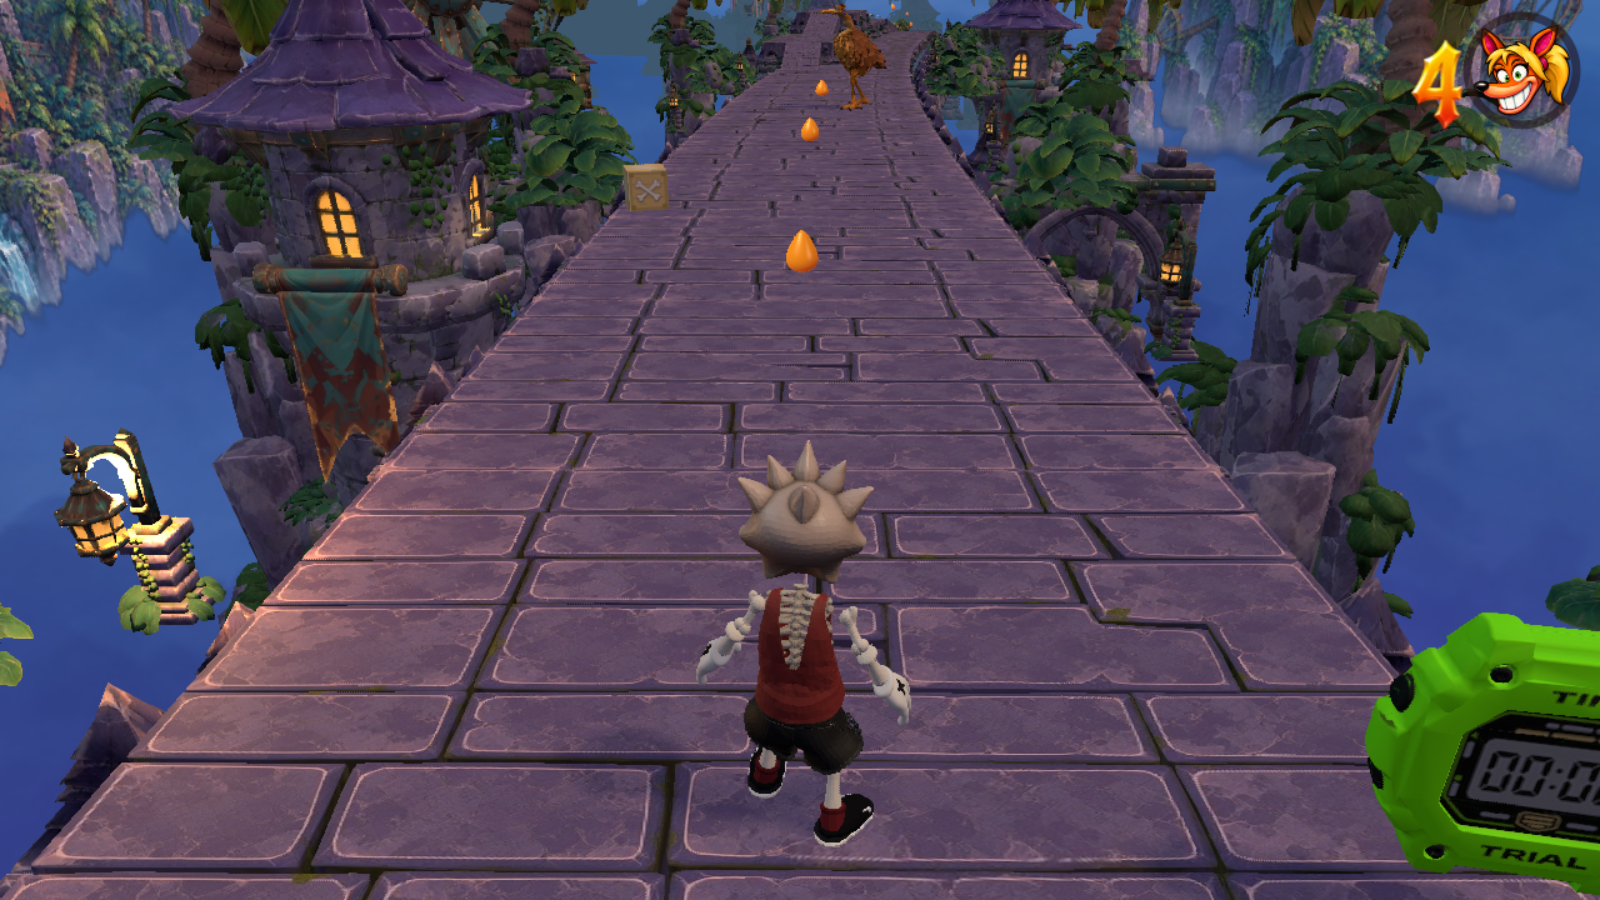
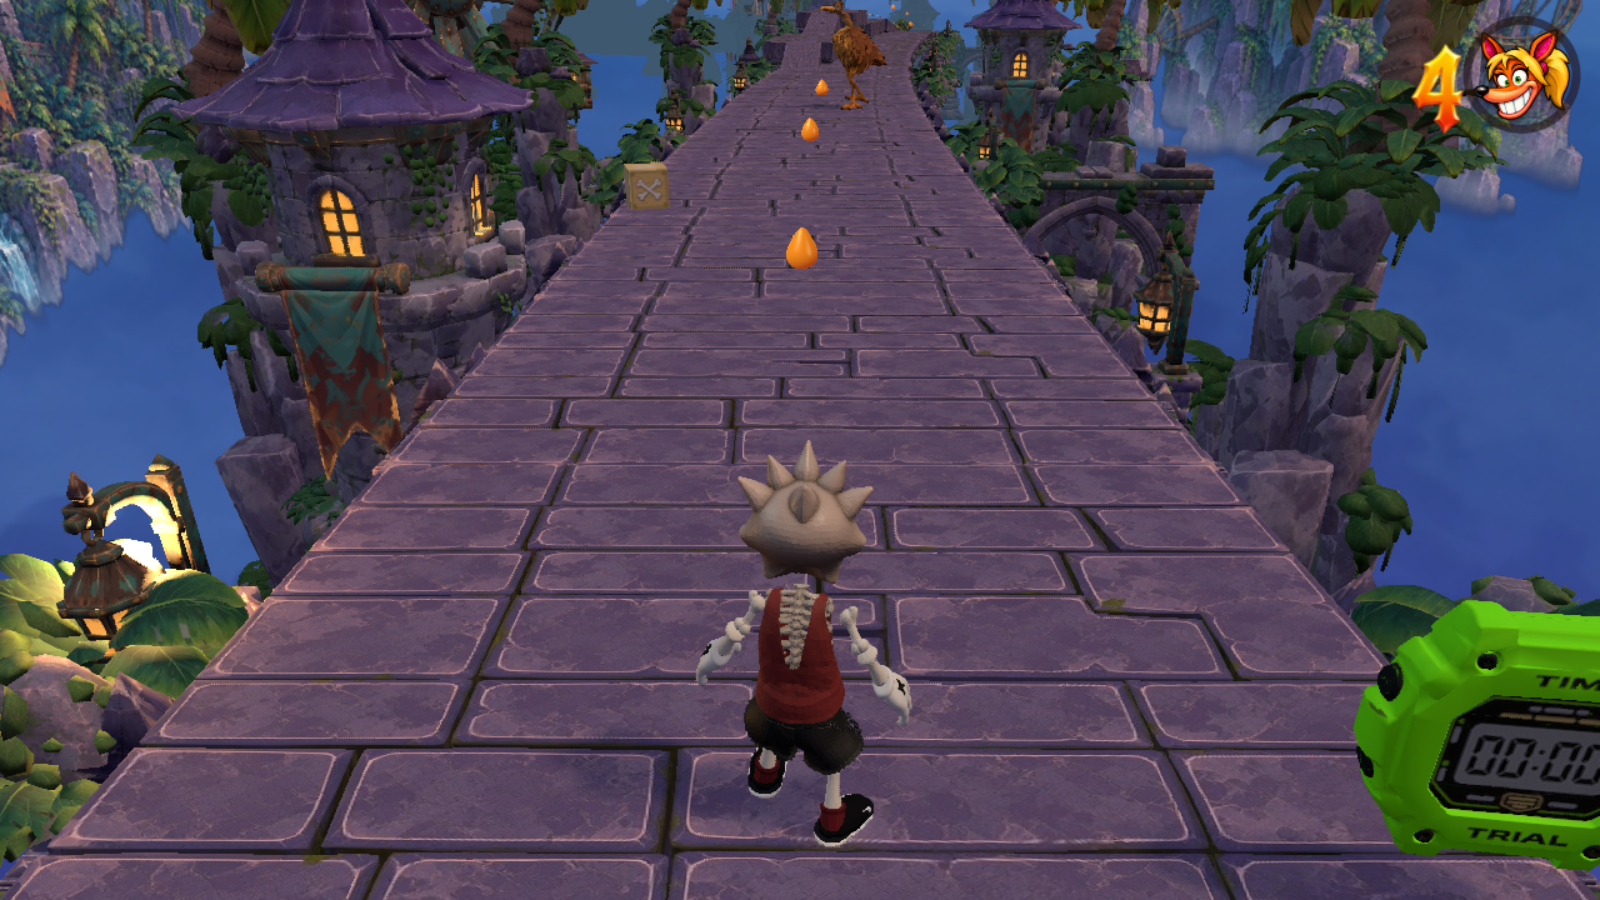
Record verified final Blockworks deployment

diff --git a/docs/LEVEL_ITERATIONS.md b/docs/LEVEL_ITERATIONS.md
@@ -463,7 +463,7 @@
 | 2026-10-05 combo cleanup | Retire the compulsory green combo plus; reserve the mechanism for authored secret gems | ~24 min prompt-to-browser-playable; preview, compatibility and release checks followed | Automatic from main | Remove current examples and production UI evidence while retaining plumbing/documentation | Removed all shipped/source/starter/published activators, native fallback spawning, deletion protection, map/Level Select sockets and standard completion quota. Explicit `secretComboGem: true` plus an authored `comboorb` retains the challenge; editor placement opts in, deletion stays deleted, and old cached snapshots retire the former compulsory pickup. Preserved saved awards, Player/Level mode/boost/prize/halo/events, earned-only HUD/results and movement tuning. Refreshed ten previews containing the old plus and retained Carlisle legacy snapshot recognition after migration | Level checks, TypeScript/production build, secret challenge lifecycle, campaign 100%, map/Level Select, editor UX/round-trip and 179 parser cases pass. Real lite/full Chrome verifies spawn, checkpoint banking/death restore, pit respawn, finish, three-slot map/stats, desktop/portrait touch and no console errors. Existing collectible-visibility fixture fails with an undefined `competition` mock on unchanged HEAD too; retained without unrelated fixes. No full suite. See SECRET_COMBO_GEMS.md. |
 
 | 264 | Bonus checkpoints, single-column Home and baked radial blur lab | ~34 min after restored project access through the first complete browser review; overlapping-copy follow-up, reset/undo and publication followed | Automatic from main | Bank successful bonuses like checkpoint crates; one Home action column without Save Offline; replace the old spin character with a current-character static smear and overlapping rotated copies | Success snapshots the supported bonus return point, crate/outline/switch/partial-hit/bridge state, box count, masks and score through the existing checkpoint path; failure keeps the prior bank and hard reset clears it. Home keeps one bounded vertical action list. Spin Lab captures actual current textured, skinned/morphed surfaces, applies editable radial distortion and 1–12 rotated overlapping blur copies with spread/opacity, then explicitly bakes a self-contained static GLB used by the game and open tabs. Fork-owned IndexedDB persists the bake; reset backs it up and Undo restores it. Retired model preloads removed. Preserve independent skateboard spin routes and movement tuning | Static surface/mirror/blur/lifetime checks, real-Player success/failure/death/partial-crate/switch/bridge restores, all 22 bonus routes and four boss exclusions, campaign death flow, renderer checks, save/update and local-reset tests pass. Chrome checks draft/bake separation, open-game replacement, GLB persistence, real lite/full spins, bonus pit death/respawn and seven Home aspect ratios. Production build passes. Validate/publish from an isolated checkout, preserving concurrent touch, water and level work and incorporating the published secret-gem cleanup. No full suite. See SPIN_SMEAR_LAB.md. |
-| 265 | Blockworks haunted island castle: player-view storyboard to Meshy component rebuild | 9 h 40 min wall clock | Verified Pages `db59c5a` at 2026-10-12 14:28 UTC (10 h 14 min from initial prompt) | 2 art-direction clarifications | `src/levels/blockworks-art.ts`, Blockworks asset/surface/matte owners, `public/blockworks-art/`, `tools/blockworks-art/`, evidence | 89 reviewed storyboard references across eight districts; 100 before/current player views; 15 original textured Meshy components (86,241 unique triangles, 225/1,000 authorized credits), one ImageGen sky and three shared world mattes. Manually tiled foreground shaders were removed at user direction. Native gameplay geometry matches current main, including updated rails and edge grinding. Continuous input pilot completed 20,619 frames with six checkpoints and no deaths/resets; full-render browser high-air/rail test, spawn/pit-respawn/checkpoint/switch/finish smoke, focused structure/edge/wedge checks, `check:levels`, TypeScript and production build passed. No tuning edits or `check:all`. Original dirty checkout preserved. |
+| 265 | Blockworks haunted island castle: player-view storyboard to Meshy component rebuild | 9 h 40 min wall clock | Verified Pages `d9a2769` at 2026-10-12 15:33 UTC (11 h 19 min from initial prompt) | 2 art-direction clarifications | `src/levels/blockworks-art.ts`, Blockworks asset/surface/matte owners, `public/blockworks-art/`, `tools/blockworks-art/`, evidence | 89 reviewed storyboard references across eight districts; 100 before/current player views; 15 original textured Meshy components (86,241 unique triangles, 225/1,000 authorized credits), one ImageGen sky and three shared world mattes. Manually tiled foreground shaders were removed at user direction. Native gameplay geometry matches current main, including updated rails and edge grinding. Continuous input pilot completed 20,619 frames with six checkpoints and no deaths/resets; full-render browser high-air/rail test, spawn/pit-respawn/checkpoint/switch/finish smoke, focused structure/edge/wedge checks, `check:levels`, TypeScript and production build passed. No tuning edits or `check:all`. Original dirty checkout preserved. |
 
 | 2026-10-05 · Slipstream camera follow-up | Keep the upcoming course visible during movement and repair grouped saved camera spines | ~58 min prompt-to-browser-verified playable, including reproduction, narrow-screen iteration and full-render finale; release validation followed | Automatic from main | Fix the camera issue left by the previous static/path-only validation | Slipstream authors a 15 m presentation look-ahead on its ordered 3D lane. The eye stays on the rider/next-bend chord while retaining eased trailing distance; gameplay/replay heading, pitch, FOV, vertical follow, geometry and movement tuning retain their existing rules. Known old editor paths migrate with folders, names and locks preserved; hand-edited coordinates/radii and explicit framing overrides survive | Production camera regression compares walking, skating and 48 m/s perfect-grind travel at 30/60 Hz in portrait/landscape, including crossings and the final descent; checks the next course point, horizontal rider envelope and unchanged input/pitch/lens/vertical follow. Exact migration, editor capture/import and invalid-field bounds checks pass. Lite/full real browser reviews cover the late bend, charged water-gap landing and finish pad with clean consoles. Required level checks and production build; no full suite. |
 

diff --git a/docs/BLOCKWORKS_ART.md b/docs/BLOCKWORKS_ART.md
@@ -115,13 +115,16 @@ provider operation and its 15-credit charge; no purchases or plan changes.
 
 ## Published verification
 
-The initial verified release is commit `db59c5a42fc23bd38ce95d0f8bcd2cf90ee32454`.
-[Pages workflow 38260868289](https://github.com/kiranmatthews/Prototype-Fork/actions/runs/38260868289)
-succeeded. A fresh browser verified the public level at 2026-10-12 14:28 UTC:
-`Codex/sol fork · build 10-12 14:21 UTC`, all 15 models and four environment
-images ready, matching deployed asset hashes, real keyboard movement on
-supported ground, no deaths and no console errors. The machine-readable proof
-and screenshot are under `docs/blockworks-art/deployment/`. The final foreground attachment follow-up lowers lantern bases into masonry,
-plants smaller foliage at the wall edges, and respects narrow facade dimensions
-inside the native lift-guide footprint. It preserves the same geometry contract
-and Meshy assets; final public verification is recorded in the job ledger.
+The final functional release is `d9a2769032b1b877b9322ba47d3cc7a9e267e081`.
+[Pages workflow 38269188841](https://github.com/kiranmatthews/Prototype-Fork/actions/runs/38269188841)
+succeeded. A fresh browser verified the public level at 2026-10-12 15:33 UTC:
+`Codex/sol fork · build 10-12 15:25 UTC`, all 15 models and four environment
+images ready, matching deployed asset hashes, the final attached-lantern data,
+real keyboard movement on supported ground, no deaths and no console errors.
+The machine-readable proof and screenshot are under `docs/blockworks-art/deployment/`.
+Final bookkeeping commits contain this proof and the verifier only; no game
+or runtime changes follow the verified functional release.
+
+The prior heartbeat was already removed from the app. Pausing its recorded ID
+returned not found, and no local automation file remains. The active goal is
+closed after verified delivery; no further Meshy work is scheduled.

diff --git a/tools/blockworks-art/README.md b/tools/blockworks-art/README.md
@@ -26,7 +26,7 @@ integrated. Runtime scenery and most decks/roofs/movers use the Meshy kit.
 
 Integration and visual/gameplay QA passed on current main. The functional release is published and verified. The gameplay
 pilot was updated to carve around the entry moa and passed the full journey
-(20,157 frames, six checkpoints, zero deaths/resets) before final assembly.
+(20,619 frames, six checkpoints, zero deaths/resets) on current main.
 Current-main structural checks, full input journey, real-browser traversal/smoke, check:levels and build passed. See job.json and docs/blockworks-art/deployment/verification.json for the successful Pages workflow, deployed build stamp, 15 ready models, matching asset hashes and real keyboard movement.
 
 ## Commands
@@ -78,3 +78,5 @@ not accept PNPM's purge/install workaround on the shared `node_modules` link.
 The updated whole-journey pilot now uses a real outside carving line around the moa. Repeat it after final assembly. Final work
 still requires gameplay, visual comparisons, focused checks, a new build,
 iteration timing, task-only commits and verified publication through main.
+
+Final live verification: `d9a2769`, Pages workflow `38269188841`, fork stamp `10-12 15:25 UTC`, checked at `2026-10-12T15:33:24.537Z`. All 15 models and shared environment images ready; final attachment data, keyboard movement and zero console errors confirmed. See `docs/blockworks-art/deployment/verification.json`.
